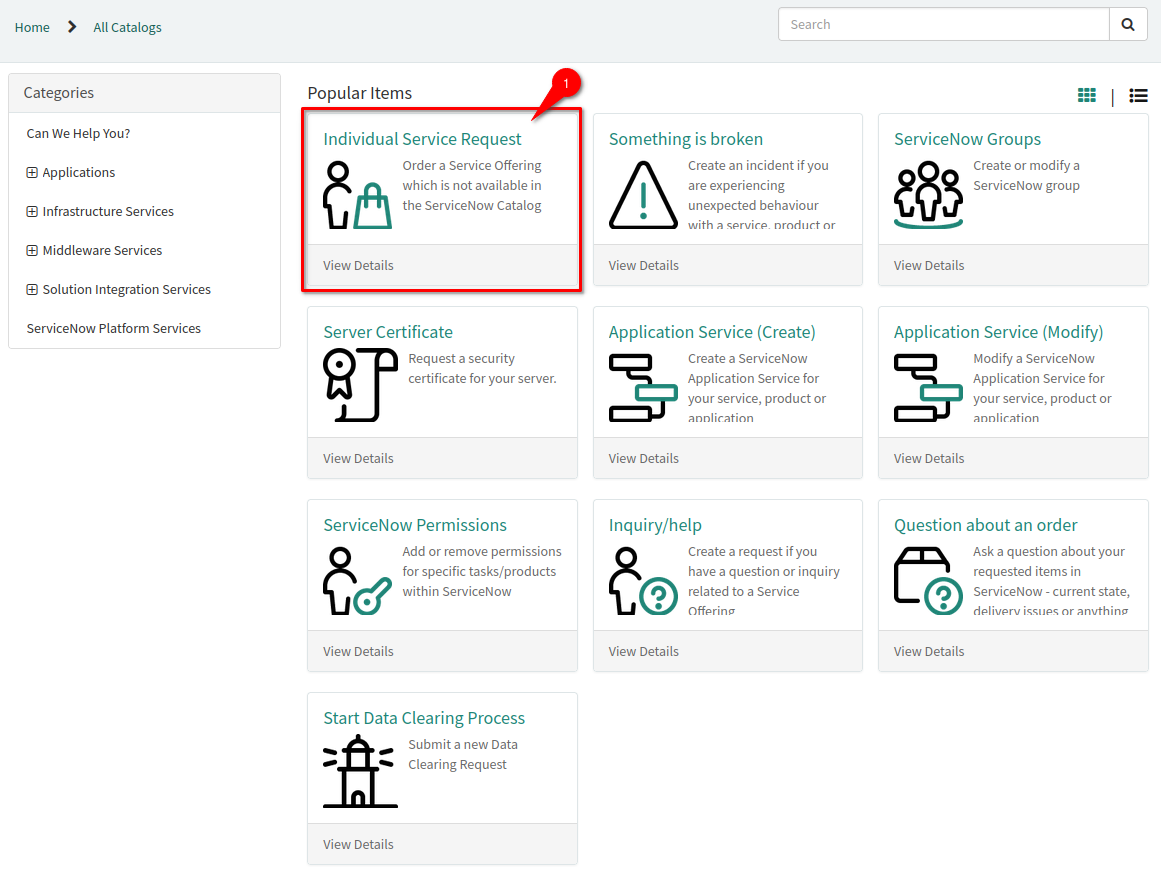
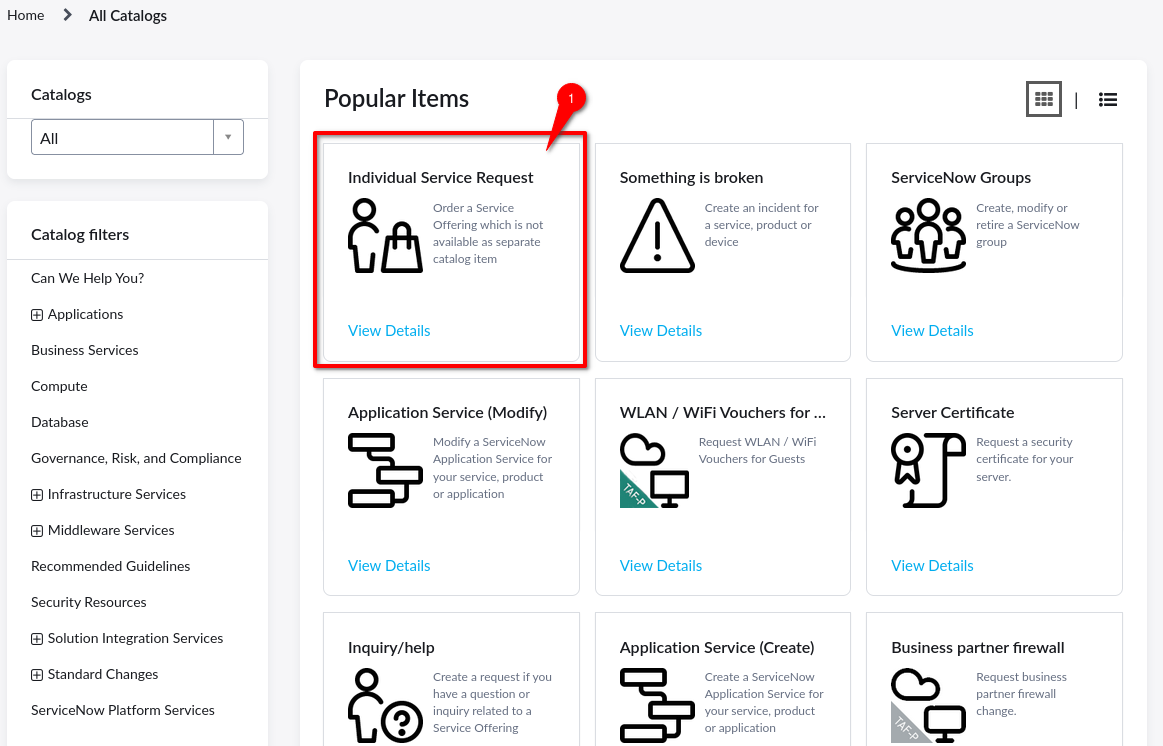
alter the way how requests are created

diff --git a/pages/requests.md b/pages/requests.md
@@ -11,11 +11,7 @@ Having request tickets is important as this is one of the main measures for the 
 
 ## How to create
 
-Please open [Daimler Service Now - Service Portal https://daimler.service-now.com/sp](https://daimler.service-now.com/sp)
-
-### Go to **"Request Something"**
-
-![Service Portal](images/servicenow/snow_incident_01.png)
+Please open [Daimler Service Now - Service Portal https://daimler.service-now.com/esc?id=sc_category](https://daimler.service-now.com/sp)
 
 ### Go to **"Individual Service Request"**
 
